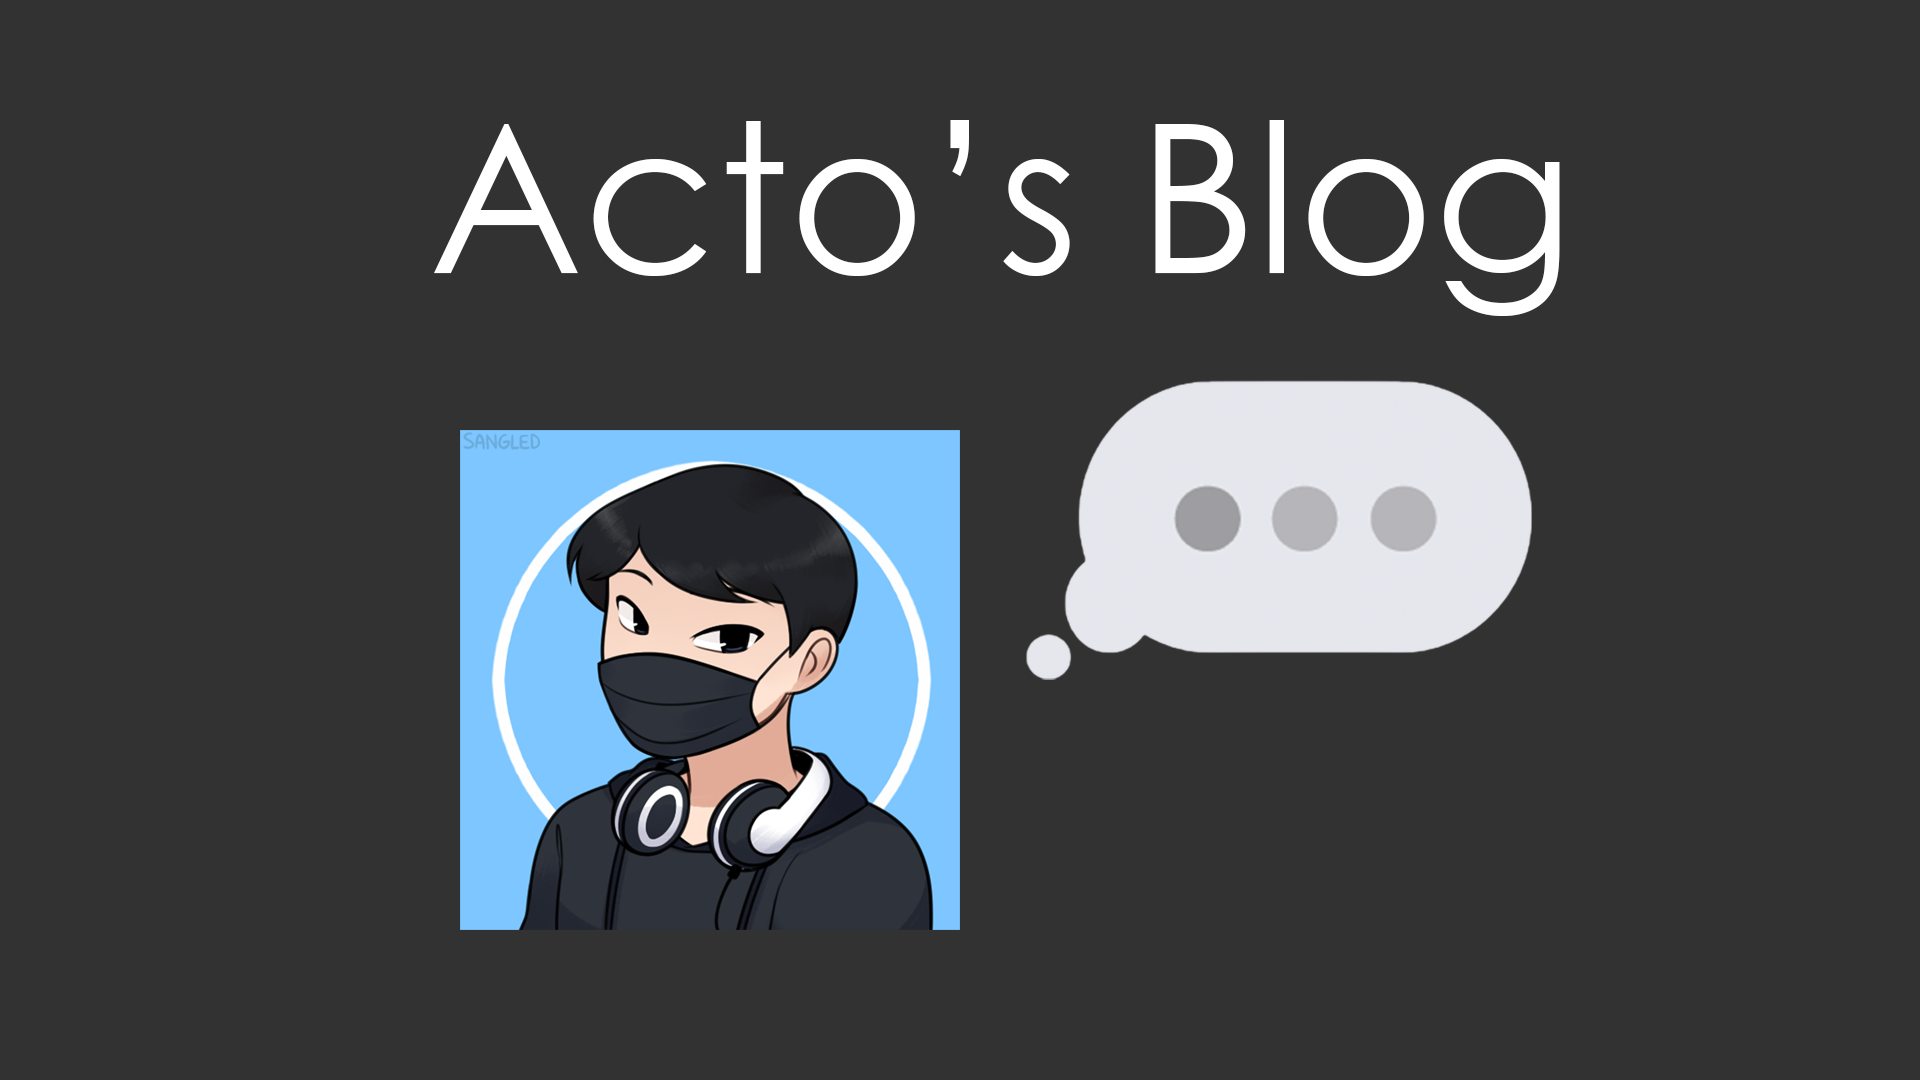
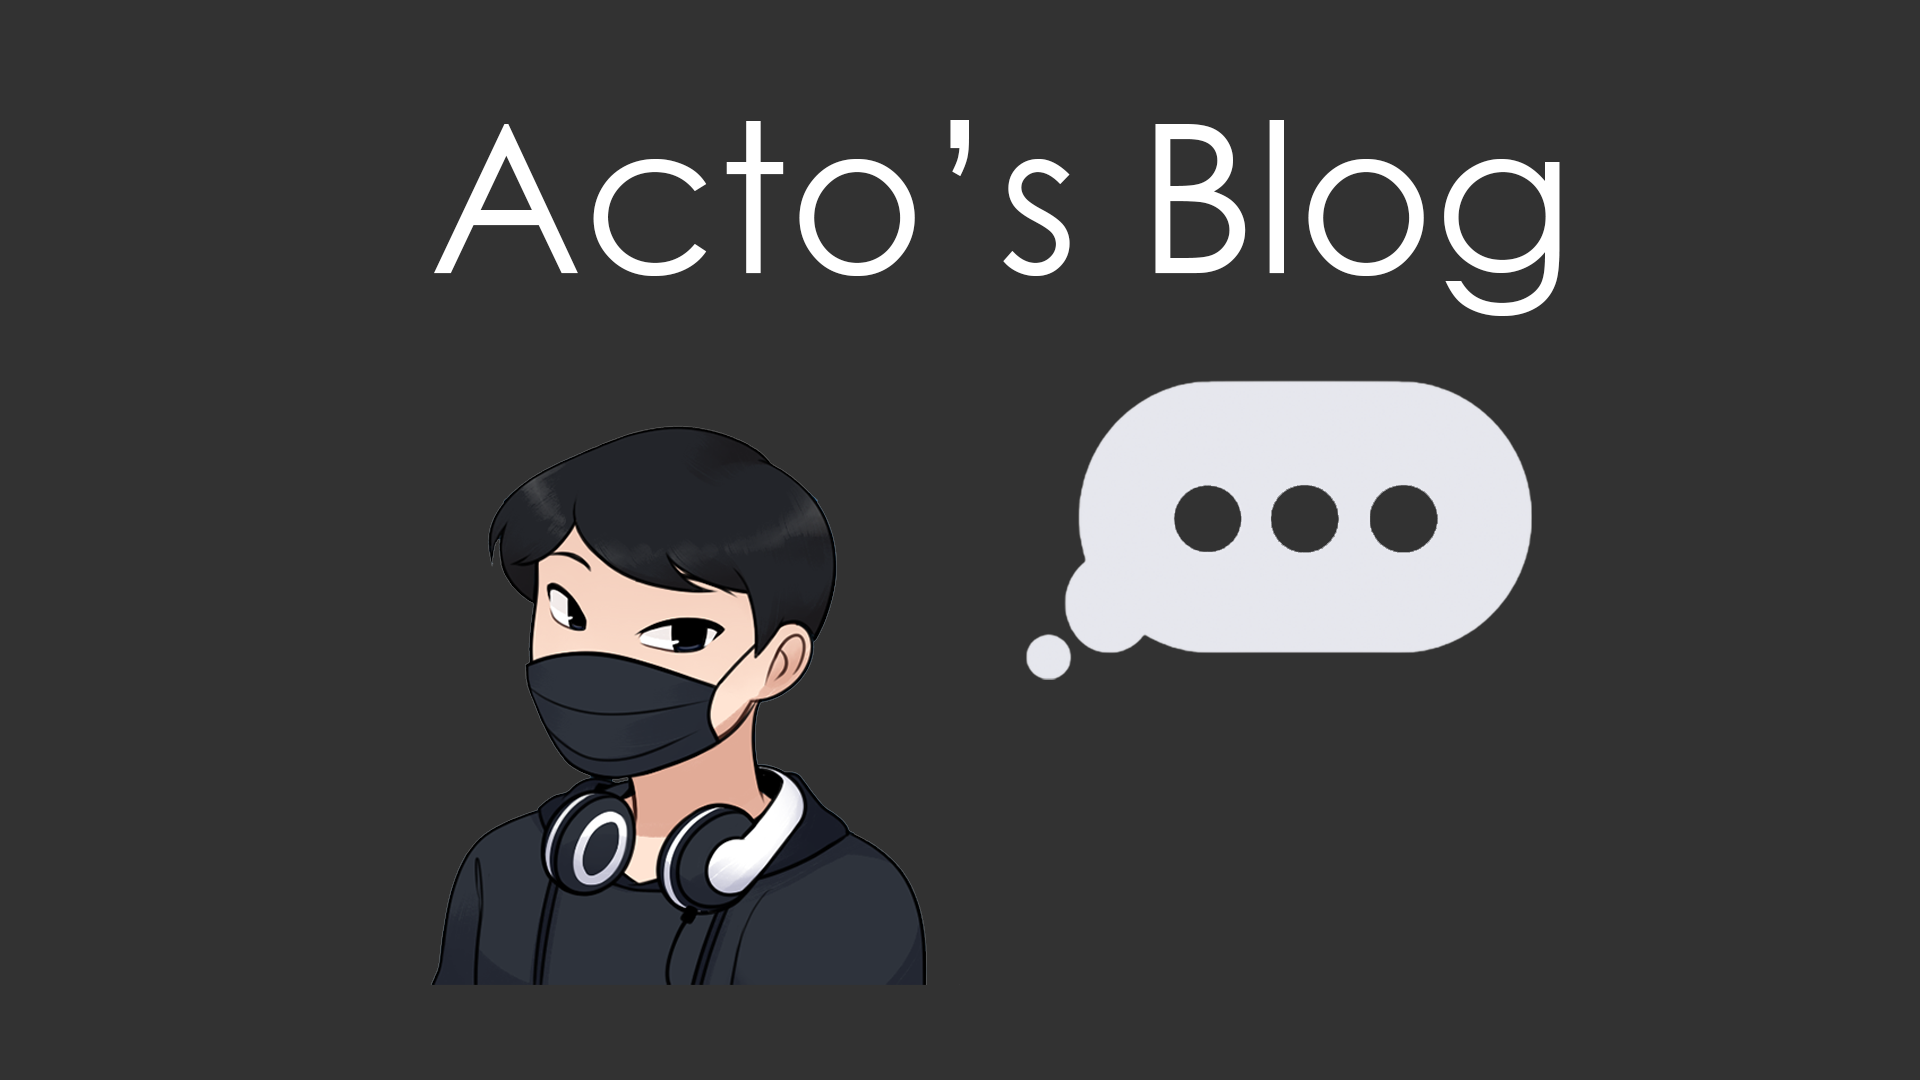
Updated /blog

Changed region(s): [[0.2188, 0.3972, 0.5, 0.9167], [0.5938, 0.4278, 0.75, 0.5194]]

diff --git a/blog/index.html b/blog/index.html
@@ -6,6 +6,23 @@
     <meta name="viewport" content="width=device-width, initial-scale=1">
     <link rel="stylesheet" href="https://www.w3schools.com/w3css/3/w3.css">
     <title>cleverActon0126: Blog</title>
+    <style>
+        table, th, td {
+          border: 0.7px solid white;
+          border-collapse: collapse;
+          padding: 7px;
+          margin-left:auto;
+          margin-right: auto;
+          text-align: left;
+        }
+        .equalDivide tr td { width:33%; }
+        body {
+            background-color: #000000;
+        }
+        .abc {
+            background-color: #323232;
+        }
+    </style>
 </head>
 <body>
     <nav class="w3-bar w3-black">
@@ -18,10 +35,25 @@
         <a hred="https://ridgewayplus.codes" class="w3-button w3-black w3-right">Delilah!</a>
     </nav>
 
-    <section class="w3-content w3-center w3-container" style="max-width:100%">
-        <h1>This part of the website is not ready yet.</h1>
-        <p>Maybe you want to come back later, or just never visit this page again. Your choice.</p>
+    <section class="w3-container w3-center abc" style="max-width:100%">
+        <img src="../assets/home/5.png" style="width:75%">
     </section>
 
+    <section class="w3-container w3-center w3-black w3-content" style="max-width:100%">
+        <h1>Acton's Blog</h1>
+    </section>
+
+    <section class="w3-container w3-black w3-center w3-content" style="max-width:100%">
+        <table class="equalDivide" width="85%" style="align-content: center;">
+            <tr>
+                <th style="text-align: center;">Blog Name</th>
+                <th style="text-align: center;">Blog Date</th>
+                <th style="text-align: center;">Blog Link</th>
+            </tr>
+            <tr>
+                <td colspan=3 style="text-align: center;">There are currently no blogs available.</td>
+            </tr>
+        </table>
+    </section>
 </body>
 </html>
